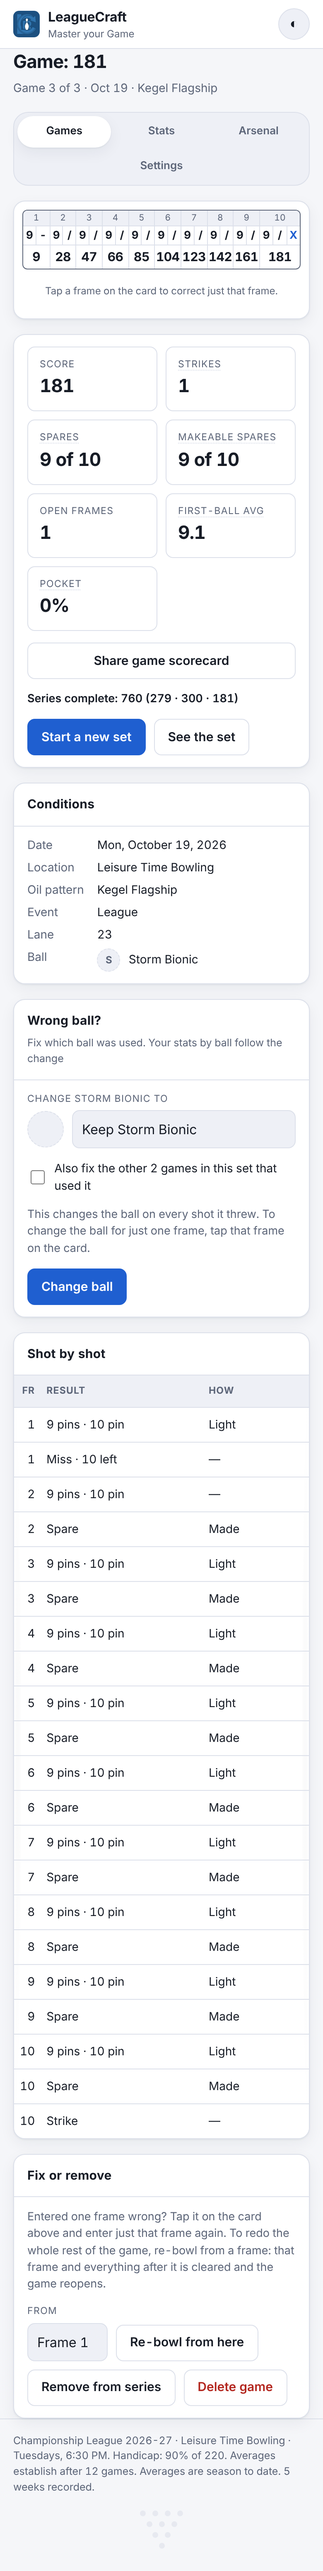
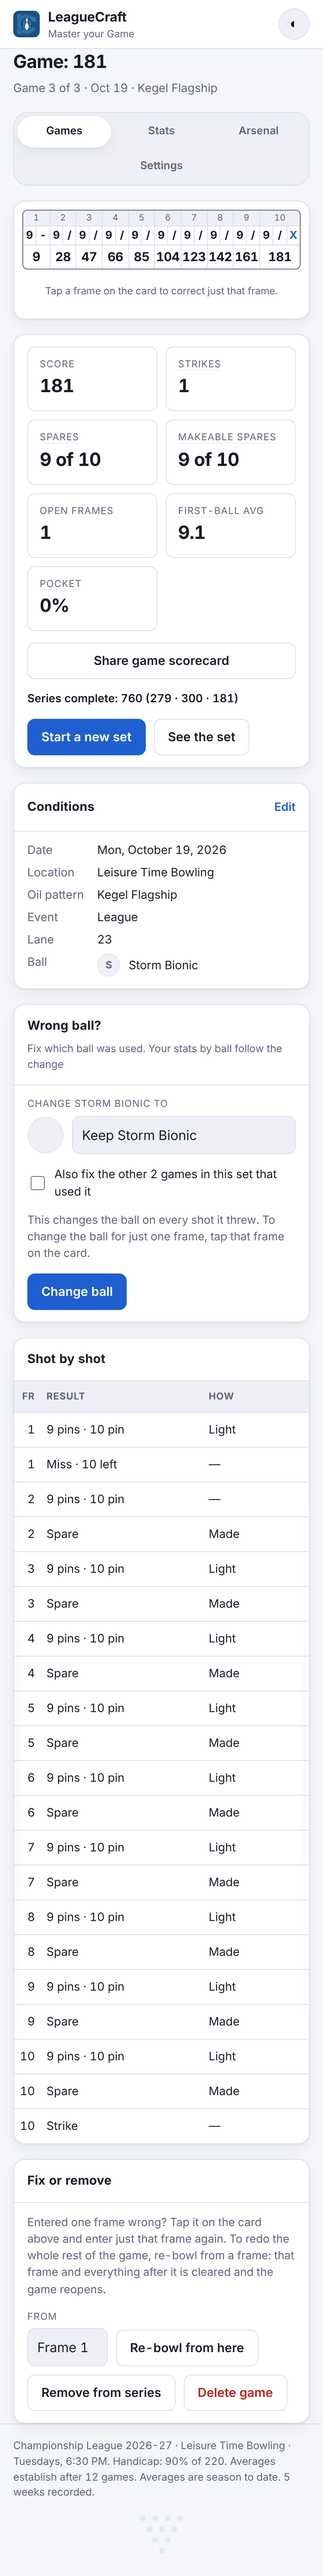
Correct a game's conditions: date, event, place, pattern, lane, notes
- Conditions card has Edit: change the details for this game, or for every
  game in its set at once (notes stay with the game)
- Set page links to the same form
- Replacing an import now warns that it overwrites later edits

Claude-Session: https://claude.ai/code/session_01D1oqoGysNXNf16kfEsCaSj

diff --git a/js/shots-ui.js b/js/shots-ui.js
@@ -534,6 +534,10 @@
         })),
       ]),
       next ? null : el('div', { class: 'sh-actions' }, el('a', { class: 'sh-btn', href: '#/shots/new/' + set.id, text: 'Add another game to this series' })),
+      el('div', { class: 'sh-actions' }, el('a', {
+        class: 'sh-btn', href: '#/shots/game/' + set.games[0].id, text: 'Correct the night\u2019s details',
+        onclick: function () { ui.editDetails = set.games[0].id; },
+      })),
       singles.length ? el('div', { class: 'sh-actions' }, [
         field('Add a game you already entered', pickSingle),
         button('Add to series', once(function () {
@@ -1215,6 +1219,75 @@
 
   /* ---------- a finished game ---------- */
 
+  /* The conditions of a game, which can be corrected: the date, event, place, oil
+     pattern, lane and notes. The night's details (everything but the notes) can
+     be changed for every game in the set at once. */
+  function conditionsCard(game, mySet, detail) {
+    var shared = mySet ? mySet.games.filter(function (g) { return g.id !== game.id; }) : [];
+    var card = UI.card('Conditions', null, null);
+    var head = card.querySelector('.card-head');
+    var body = el('div');
+    card.appendChild(body);
+
+    function show() {
+      UI.clear(body);
+      if (ui.editDetails !== game.id) {
+        if (head && !head.querySelector('.sh-edit-link')) {
+          head.appendChild(el('button', { type: 'button', class: 'link-button sh-edit-link', onclick: function () { ui.editDetails = game.id; show(); } }, 'Edit'));
+        }
+        if (head) head.querySelector('.sh-edit-link').hidden = false;
+        body.appendChild(el('dl', { class: 'sh-detail' }, detail.reduce(function (acc, row) {
+          acc.push(el('dt', { text: row[0] }), typeof row[1] === 'object' ? el('dd', null, row[1]) : el('dd', { text: row[1] }));
+          return acc;
+        }, [])));
+        return;
+      }
+      if (head && head.querySelector('.sh-edit-link')) head.querySelector('.sh-edit-link').hidden = true;
+      var date = el('input', { type: 'date', value: game.date || today(), required: true });
+      var event = el('select', null, S.EVENTS.map(function (e) {
+        return el('option', { value: e, selected: e === game.event }, e.charAt(0).toUpperCase() + e.slice(1));
+      }));
+      var where = el('input', { type: 'text', list: 'sh-edit-locations', value: game.location || '', autocapitalize: 'words', placeholder: 'e.g. Leisure Time Bowling' });
+      var pattern = el('input', { type: 'text', list: 'sh-edit-patterns', value: game.pattern || '', autocapitalize: 'words', placeholder: 'e.g. House' });
+      var lane = el('input', { type: 'text', inputmode: 'numeric', value: game.lane || '', placeholder: 'e.g. 23' });
+      var notes = el('textarea', { rows: 3, placeholder: 'Anything worth remembering' }, game.notes || '');
+      var whole = el('input', { type: 'checkbox' });
+      whole.checked = true;
+      var err = errorLine();
+      body.appendChild(el('form', {
+        class: 'sh-form card-body sh-stack',
+        onsubmit: once(function (e) {
+          e.preventDefault();
+          if (!date.value) return showError(err, 'A game needs a date.');
+          var changed = [];
+          var targets = whole.checked && shared.length ? shared.concat([game]) : [game];
+          targets.forEach(function (g) {
+            var next = JSON.parse(JSON.stringify(g));
+            next.date = date.value; next.event = event.value;
+            next.location = where.value.trim(); next.pattern = pattern.value.trim(); next.lane = lane.value.trim();
+            if (g.id === game.id) next.notes = notes.value.trim();
+            changed.push(next);
+          });
+          return saveGames(changed).then(function () { ui.editDetails = null; backgroundSync(); rerender(); }, function (ex) { showError(err, ex.message); });
+        }),
+      }, [
+        datalist('sh-edit-locations', S.distinct(allGames(), 'location')),
+        datalist('sh-edit-patterns', S.distinct(allGames(), 'pattern')),
+        el('div', { class: 'sh-grid' }, [field('Date', date), field('Event', event), field('Location', where), field('Lane', lane)]),
+        field('Oil pattern', pattern),
+        field('Notes', notes),
+        shared.length ? el('label', { class: 'sh-check' }, [whole, el('span', { text: 'Use the date, event, location, pattern and lane for all ' + (shared.length + 1) + ' games in this set (notes stay with this game)' })]) : null,
+        err,
+        el('div', { class: 'sh-actions' }, [
+          el('button', { type: 'submit', class: 'sh-btn is-primary', text: 'Save details' }),
+          button('Cancel', function () { ui.editDetails = null; show(); }),
+        ]),
+      ]));
+    }
+    show();
+    return card;
+  }
+
   /* Picked the wrong ball? Swap it, on this game or every game in the set that used it. */
   function fixBallCard(game, mySet) {
     var used = S.ballsInGame(game);
@@ -1349,10 +1422,7 @@
         ]),
         S.switches(game).length ? el('p', { class: 'sh-note', text: 'A dot over a frame number on the card marks where the ball changed.' }) : null,
       ])),
-      UI.card('Conditions', null, el('dl', { class: 'sh-detail' }, detail.reduce(function (acc, row) {
-        acc.push(el('dt', { text: row[0] }), typeof row[1] === 'object' ? el('dd', null, row[1]) : el('dd', { text: row[1] }));
-        return acc;
-      }, []))),
+      conditionsCard(game, mySet, detail),
       fixBallCard(game, mySet),
       UI.card('Shot by shot', null, UI.table({ columns: columns, rows: rows, state: null, onSort: function () {} })),
       UI.card('Fix or remove', null, el('div', { class: 'card-body sh-stack' }, [

diff --git a/js/shots-import.js b/js/shots-import.js
@@ -173,7 +173,7 @@
       cards.push(UI.card('What will be added', summary, el('div', null, [
         table,
         el('div', { class: 'card-body sh-stack' }, [
-          el('label', { class: 'sh-check' }, [replaceBox, el('span', { text: 'Replace games I already imported from this file (use after the file was corrected)' })]),
+          el('label', { class: 'sh-check' }, [replaceBox, el('span', { text: 'Replace games I already imported from this file. Use this after the file was corrected; it overwrites anything you changed in those games since.' })]),
           detailFields(res),
           ballChoices(res),
           res.warnings.length ? el('ul', { class: 'sh-notes-list' }, res.warnings.map(function (w) { return el('li', { text: w }); })) : null,
